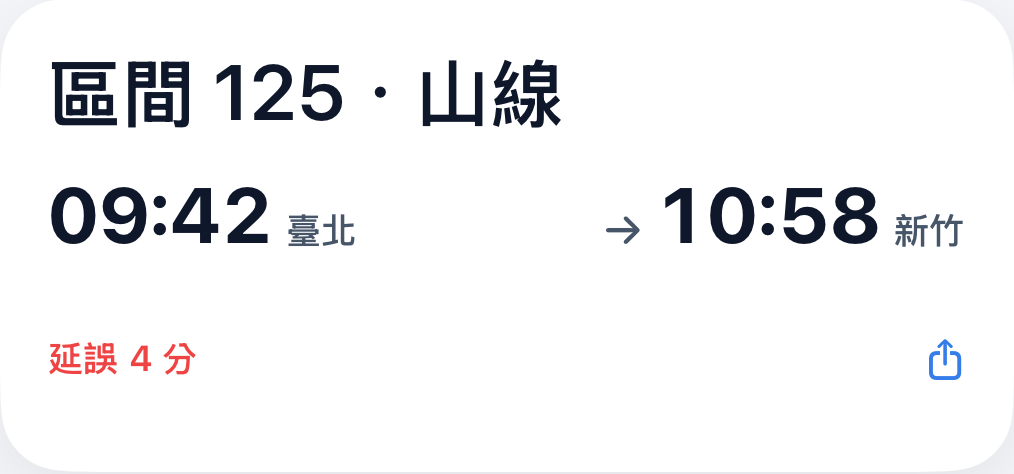
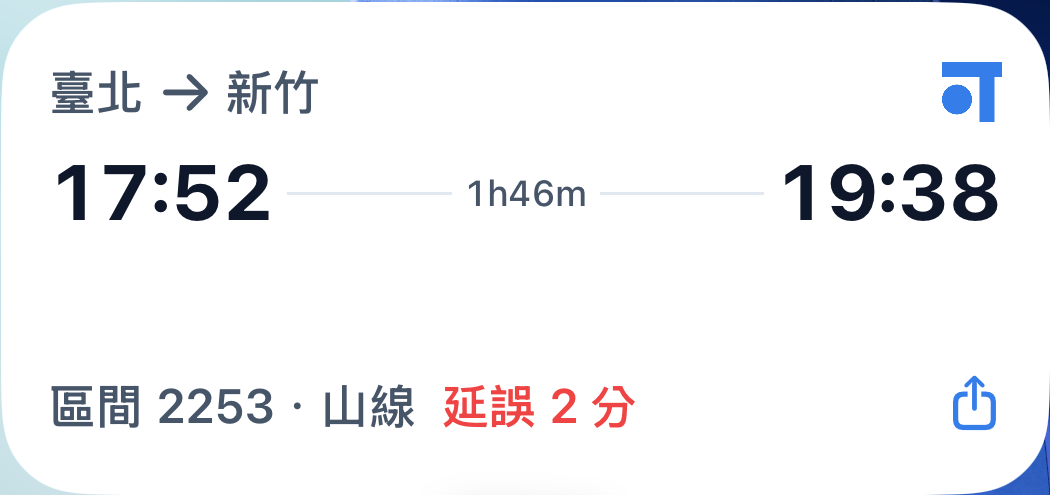
feat(ios): align widget with train cards

diff --git a/apps/ios/Shared/TrainWidgetContent.swift b/apps/ios/Shared/TrainWidgetContent.swift
@@ -11,37 +11,50 @@ struct TrainWidgetContent: View {
                 emptyContent
             }
         }
-        .padding(TrainWidgetLayout.padding)
+        .padding(.horizontal, TrainWidgetLayout.horizontalPadding)
+        .padding(.vertical, TrainWidgetLayout.verticalPadding)
         .background(TrainWidgetPalette.background)
     }
 
     private func widgetContent(_ snapshot: WidgetSnapshot) -> some View {
-        VStack(alignment: .leading, spacing: 0) {
-            Text(snapshot.trainIdentifier)
-                .font(TrainWidgetTypography.large.weight(.semibold))
-                .foregroundStyle(TrainWidgetPalette.text)
-                .lineLimit(1)
-
-            Spacer(minLength: TrainWidgetLayout.sectionGap)
-
-            HStack(alignment: .firstTextBaseline, spacing: TrainWidgetLayout.inlineGap) {
-                scheduleStop(time: snapshot.departureTime, station: snapshot.originName)
-
-                Spacer(minLength: TrainWidgetLayout.inlineGap)
+        VStack(alignment: .leading, spacing: TrainWidgetLayout.rowGap) {
+            HStack(spacing: TrainWidgetLayout.inlineGap) {
+                Text(snapshot.originName)
 
                 Image(systemName: "arrow.right")
-                    .font(TrainWidgetTypography.small.weight(.semibold))
-                    .foregroundStyle(TrainWidgetPalette.secondaryText)
 
-                scheduleStop(time: snapshot.arrivalTime, station: snapshot.destinationName)
+                Text(snapshot.destinationName)
+
+                Spacer(minLength: TrainWidgetLayout.sectionGap)
+
+                appLogo
+                    .layoutPriority(1)
             }
+            .font(TrainWidgetTypography.medium.weight(.semibold))
+            .foregroundStyle(TrainWidgetPalette.secondaryText)
+            .lineLimit(1)
 
-            Spacer(minLength: TrainWidgetLayout.sectionGap)
+            HStack(spacing: TrainWidgetLayout.inlineGap) {
+                scheduleTime(snapshot.departureTime)
 
-            HStack(alignment: .center) {
+                tripSeparator(for: snapshot)
+
+                scheduleTime(snapshot.arrivalTime)
+            }
+            .padding(.top, TrainWidgetLayout.firstRowGapIncrease)
+
+            Spacer(minLength: 0)
+
+            HStack(alignment: .bottom, spacing: TrainWidgetLayout.sectionGap) {
+                Text(snapshot.trainIdentifier)
+                    .font(TrainWidgetTypography.medium.weight(.semibold))
+                    .foregroundStyle(TrainWidgetPalette.secondaryText)
+                    .lineLimit(1)
+                    .minimumScaleFactor(0.85)
+
                 if let statusText = statusText(for: snapshot) {
                     Text(statusText)
-                        .font(TrainWidgetTypography.small.weight(.semibold))
+                        .font(TrainWidgetTypography.medium.weight(.semibold))
                         .foregroundStyle(statusColor(for: snapshot))
                 }
 
@@ -50,12 +63,12 @@ struct TrainWidgetContent: View {
                 if let copyURL = snapshot.copyURL {
                     Link(destination: copyURL) {
                         Image(systemName: "square.and.arrow.up")
-                            .font(TrainWidgetTypography.small.weight(.semibold))
+                            .font(TrainWidgetTypography.medium.weight(.semibold))
                             .foregroundStyle(TrainWidgetPalette.primary)
                             .frame(
                                 width: TrainWidgetLayout.minimumTapTarget,
                                 height: TrainWidgetLayout.minimumTapTarget,
-                                alignment: .trailing
+                                alignment: .bottomTrailing
                             )
                             .contentShape(Rectangle())
                     }
@@ -66,18 +79,57 @@ struct TrainWidgetContent: View {
         }
     }
 
-    private func scheduleStop(time: String, station: String) -> some View {
-        HStack(alignment: .firstTextBaseline, spacing: TrainWidgetLayout.inlineGap) {
-            Text(time)
-                .font(TrainWidgetTypography.large.weight(.bold))
-                .monospacedDigit()
-                .foregroundStyle(TrainWidgetPalette.text)
+    private func scheduleTime(_ time: String) -> some View {
+        Text(time)
+            .font(TrainWidgetTypography.large.weight(.bold))
+            .monospacedDigit()
+            .foregroundStyle(TrainWidgetPalette.text)
+            .lineLimit(1)
+            .minimumScaleFactor(0.85)
+    }
 
-            Text(station)
-                .font(TrainWidgetTypography.small.weight(.semibold))
-                .foregroundStyle(TrainWidgetPalette.secondaryText)
-                .lineLimit(1)
+    @ViewBuilder
+    private var appLogo: some View {
+        if let path = Bundle.main.path(forResource: "launch-logo", ofType: "png"),
+           let image = UIImage(contentsOfFile: path) {
+            Image(uiImage: image)
+                .renderingMode(.original)
+                .resizable()
+                .scaledToFit()
+                .frame(
+                    width: TrainWidgetLayout.logoSize,
+                    height: TrainWidgetLayout.logoSize
+                )
+                .accessibilityHidden(true)
         }
+    }
+
+    private func tripSeparator(for snapshot: WidgetSnapshot) -> some View {
+        HStack(spacing: TrainWidgetLayout.inlineGap) {
+            separatorLine
+
+            Text(
+                TrainDisplay.tripDuration(
+                    departure: snapshot.departureTime,
+                    arrival: snapshot.arrivalTime
+                )
+            )
+            .font(TrainWidgetTypography.small.weight(.medium))
+            .foregroundStyle(TrainWidgetPalette.secondaryText)
+            .monospacedDigit()
+            .lineLimit(1)
+            .fixedSize(horizontal: true, vertical: false)
+
+            separatorLine
+        }
+        .frame(maxWidth: .infinity)
+    }
+
+    private var separatorLine: some View {
+        Rectangle()
+            .fill(TrainWidgetPalette.border)
+            .frame(minWidth: TrainWidgetLayout.minimumLineWidth, maxWidth: .infinity)
+            .frame(height: 1)
     }
 
     private var emptyContent: some View {
@@ -109,13 +161,19 @@ struct TrainWidgetContent: View {
 
 enum TrainWidgetTypography {
     static let large = Font.system(size: 26)
+    static let medium = Font.system(size: 16)
     static let small = Font.system(size: 12)
 }
 
 enum TrainWidgetLayout {
-    static let padding: CGFloat = 16
+    static let horizontalPadding: CGFloat = 16
+    static let verticalPadding: CGFloat = 20
     static let sectionGap: CGFloat = 8
+    static let rowGap: CGFloat = 4
+    static let firstRowGapIncrease: CGFloat = 4
     static let inlineGap: CGFloat = 4
+    static let logoSize: CGFloat = 20
+    static let minimumLineWidth: CGFloat = 4
     static let minimumTapTarget: CGFloat = 44
 }
 
@@ -139,6 +197,11 @@ enum TrainWidgetPalette {
         traits.userInterfaceStyle == .dark
             ? UIColor(red: 96 / 255, green: 165 / 255, blue: 250 / 255, alpha: 1)
             : UIColor(red: 53 / 255, green: 125 / 255, blue: 233 / 255, alpha: 1)
+    })
+    static let border = Color(uiColor: UIColor { traits in
+        traits.userInterfaceStyle == .dark
+            ? UIColor(red: 71 / 255, green: 85 / 255, blue: 105 / 255, alpha: 1)
+            : UIColor(red: 226 / 255, green: 232 / 255, blue: 240 / 255, alpha: 1)
     })
     static let danger = Color(red: 239 / 255, green: 68 / 255, blue: 68 / 255)
 }

diff --git a/design-qa.md b/design-qa.md
@@ -1,27 +1,39 @@
 # Widget design QA
 
-- Source visual truth: `/Users/hsi/.codex/generated_images/019f8594-eff9-7ea3-b485-07cc871e57d3/exec-46b8f064-94d2-43ff-80c0-b79aa030ebb0.png`
+- Source visual truth: `assets/screenshots/ontrack-in-app-train-card-source.png`
 - Implementation capture: `assets/screenshots/ontrack-widget-medium-implementation.png`
 - Full-view comparison: `assets/screenshots/ontrack-widget-medium-comparison.png`
-- Viewport: iOS medium widget, 338 × 158 points (1014 × 474 pixels at 3×)
-- State: light appearance, predicted train with a four-minute delay
+- Viewport: iOS medium home-screen widget on the iPhone 17 Pro simulator, 350 × 165 points at 3×
+- Source pixels: 1085 × 300; implementation pixels: 1050 × 495
+- Density normalization: both captures are 3× simulator crops; the comparison preserves each component's native aspect ratio and presents them at nearly equal widths
+- State: 臺北 → 新竹, 區間 2253 · 山線, two-minute delay
 
-## Typography audit
+## Fidelity surfaces
 
-The widget authors exactly two font sizes: 26 points for train identity and times, and 12 points for stations, direction, status, and the share icon. Weight, color, and monospaced numerals provide hierarchy without adding sizes.
+- Fonts and typography: the system font and monospaced time numerals match the in-app train card. The widget uses 26 points for times, 16 points for the route and bottom train/status row, and 12 points for duration.
+- Spacing and layout rhythm: the widget uses 16-point horizontal padding and matching 20-point top and bottom padding. The route-to-time gap is 8 points, while the base vertical row gap remains 4 points. A flexible spacer anchors the bottom action row, and its visible content is bottom-aligned inside the 44-point tap frame.
+- Colors and visual tokens: text, secondary text, divider, primary blue, and semantic delay colors continue to use the widget's adaptive palette.
+- Image quality and asset fidelity: the header uses OnTrack's supplied transparent launch mark at native 1×, 2×, and 3× densities. It is loaded from the widget bundle and is not redrawn or approximated.
+- Copy and content: the route reads origin, directional arrow, destination; times remain the primary data; train identity, line, and live status remain grouped in the bottom row.
 
 ## Comparison history
 
-1. Pass 1 found one P2 alignment issue: a second flexible spacer pushed the arrival block too close to the trailing edge.
-2. The post-arrow spacer was removed so the route reads as one compact sequence while preserving the departure-first priority.
-3. Pass 2 found no remaining P0, P1, or P2 issues. The implementation intentionally uses the system medium-widget aspect ratio and corner treatment, and enforces the requested two-size typography constraint more strictly than the generated reference.
+1. The earlier design adapted the in-app time rail but placed station names beneath the times, leaving the upper and lower bands visually uneven.
+2. The route moved into a dedicated top row and the OnTrack mark was added at the far-right edge. The center became a single uninterrupted time rail and the larger bottom row was preserved.
+3. The first asset pass found one P2 issue: SwiftUI's named-image lookup did not render the raw bundled logo in the simulator.
+4. The logo loader was changed to resolve the supplied PNG directly from the widget bundle. The post-fix capture shows the correct mark, fixed at 20 points and protected from compression.
+5. A padding refinement found that the bottom row's tap frame was correctly inset but its visible content was still vertically centered, making the optical bottom padding look larger than the top padding.
+6. The visible bottom-row content was bottom-aligned inside the unchanged 44-point tap frame. The post-fix capture shows matching optical top and bottom insets without reducing the touch target.
+7. The top and bottom insets were increased together from 16 to 24 points. Vertical row gaps moved from 8 to 4 points so all three rows and the full tap target fit without clipping.
+8. The final spacing refinement set both vertical insets to 20 points and increased only the route-to-time gap by 4 points, from 4 to 8. The post-fix capture confirms balanced outer padding, clearer separation between the first two rows, and no clipping with a visible delay state.
+9. The final comparison found no remaining P0, P1, or P2 issues. The widget retains the source card's typography, rail, and train identity while adding route context and actions in balanced bands.
 
 ## Interaction and state checks
 
-- The share icon opens `ontrack://copy` and copies the formatted train message after the simulator's one-time custom-scheme approval.
+- The share icon retains its 44-point tap target and opens `ontrack://copy`.
 - The widget body deep-links to OnTrack.
-- The empty snapshot state is represented without introducing another font size.
-- Light and dark appearances were rendered and inspected.
-- Native build and launch logs showed no runtime crash or layout warning.
+- Missing delay data hides the status rather than implying freshness.
+- The signed simulator build rendered App Group data, the bundled OnTrack mark, and the refreshed widget timeline without clipping or layout warnings.
+- A focused-region comparison was unnecessary because the saved implementation capture is already a pixel-readable crop of the entire component.
 
 final result: passed
